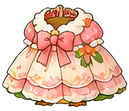
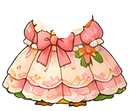
Remove leftover baked-in beak fragment from flower dress costume
outfit_flower_dress.png still had a small orange/gold beak-shaped
fragment (plus a thin feather-tuft stray line) baked into its collar
opening, left over from the original reference sheet's bird. This
category was assumed to have no bird baked in and was skipped by the
earlier masking pass, but this one item did have a residual fragment
that overlapped whichever bird's own beak showed through the costume
hole, reading as a doubled/misaligned beak. Masked it out the same way
as the other costume items and re-verified all 12 costumes across all
4 birds show cleanly with no artifacts.

Changed region(s): [[0.2481, 0.027, 0.7132, 0.3514]]

diff --git a/README.md b/README.md
@@ -81,6 +81,8 @@
 
 28. **見た目装備の2件の実機バグ修正**: ①**所持チェック漏れ**——`useWorldStore.setCosmetic`が呼び出し元から渡された`cosmeticId`をそのまま鳥に設定しており、`useCosmeticStore`の解放状態を一切確認していなかった。前々項の入手制限システムが実装される「前」に着せ替えテストで設定された`cosmeticId`がセーブに残ったままだったため、ビビが未解放のペンギン系コスチュームを着ている状態が実機で発生していた——UI側のピッカー(`BirdRosterModal`の`wearableCosmetics`フィルタ)は新規の不正な選択を防ぐだけで、システム導入前からセーブに残っていた値までは直せないため、根本原因はデータ層にあった。`setCosmetic`自体に「未解放のコスチュームなら拒否してfalseを返す」チェックを追加し、さらに`BirdWallet`から`BirdState`を組み立てる読み込み経路でも同じ判定を通すことで、既に壊れているセーブも次回起動時に自動修復されるようにした(未解放とわかった時点で`null`へフォールバック)。今後、有料アイテムなど他の「所持していないと使えないはずのもの」を実装する際も、UIのフィルタだけに頼らずデータ層の setter 自体で所持チェックを行う、という教訓として扱う。②**フード型アイテムの位置崩れ**——「おおきなインコ」「ひまわり」の2点だけ、頭部分だけ表示される/位置がずれる不具合があった。原因は前項の85%縮小パスとは無関係で、この2点の元画像そのものにあった: 他の10点は画像の透過境界(バウンディングボックス)がキャンバスの97〜100%を占める「隙間なくトリム済み」の画像だったのに対し、この2点だけはキャンバス下部に大きな透過の余白が残ったまま(インコは150×177のキャンバスに対しフード部分は上側150×115のみ)保存されていた。`aspect`は生のキャンバス比率から算出していたため、実際のフード絵より縦長のボックスとして扱われ、`offsetY`による中央合わせが空白込みの位置を基準にずれてしまい、結果として見えるフードが実際より高い位置に押し上げられ`overflow:hidden`で上端が切れていた。該当2点の画像をアルファ境界まで再トリムし、トリム後の実寸から`scale`/`aspect`/`offsetY`を計算し直して解消(4羽×実際のアバターボックスサイズ(44/40/32px)で合成を再検証済み)。
 
+29. **見た目装備の追加バグ: 「お花のワンピース」に焼き込み残りのくちばしが混入**: 上記②の対応後も実機で「まだずれてる」報告があり、添付スクリーンショットを確認したところ、位置自体は正しいものの`outfit_flower_dress.png`(お花のワンピース)の襟元に、元の参考シートの鳥(ビビ)自身のくちばしの一部がごく小さく焼き込まれたまま残っていた——このカテゴリ(おしゃれな服)は当初「鳥本体を含まない服単体の絵」と判定して item 26 の焼き込み除去パスの対象から外していたが、この1点だけ実際には襟の穴の縁にくちばし状の断片(オレンジ・金色の縞模様のくさび形+上部に伸びる細い羽毛の筋)が混入しており、これが実際に着る鳥自身のくちばしと重なって表示され、二重のくちばしのように見える/ずれて見える原因になっていた。座標ベースの楕円・多角形マスク(前回と同じ`scipy.ndimage.binary_dilation`併用)でこの断片だけを透過化し、他の11点(改めて全点を高倍率で目視点検し、焼き込み残りがないことを確認済み)には影響がないことを確認した上で解消した。
+
 ## セットアップ(PCで実機のiPhone確認)
 
 Expo Go を使えば、Xcode も Apple Developer 登録も不要でiPhone実機に反映して試せます。
